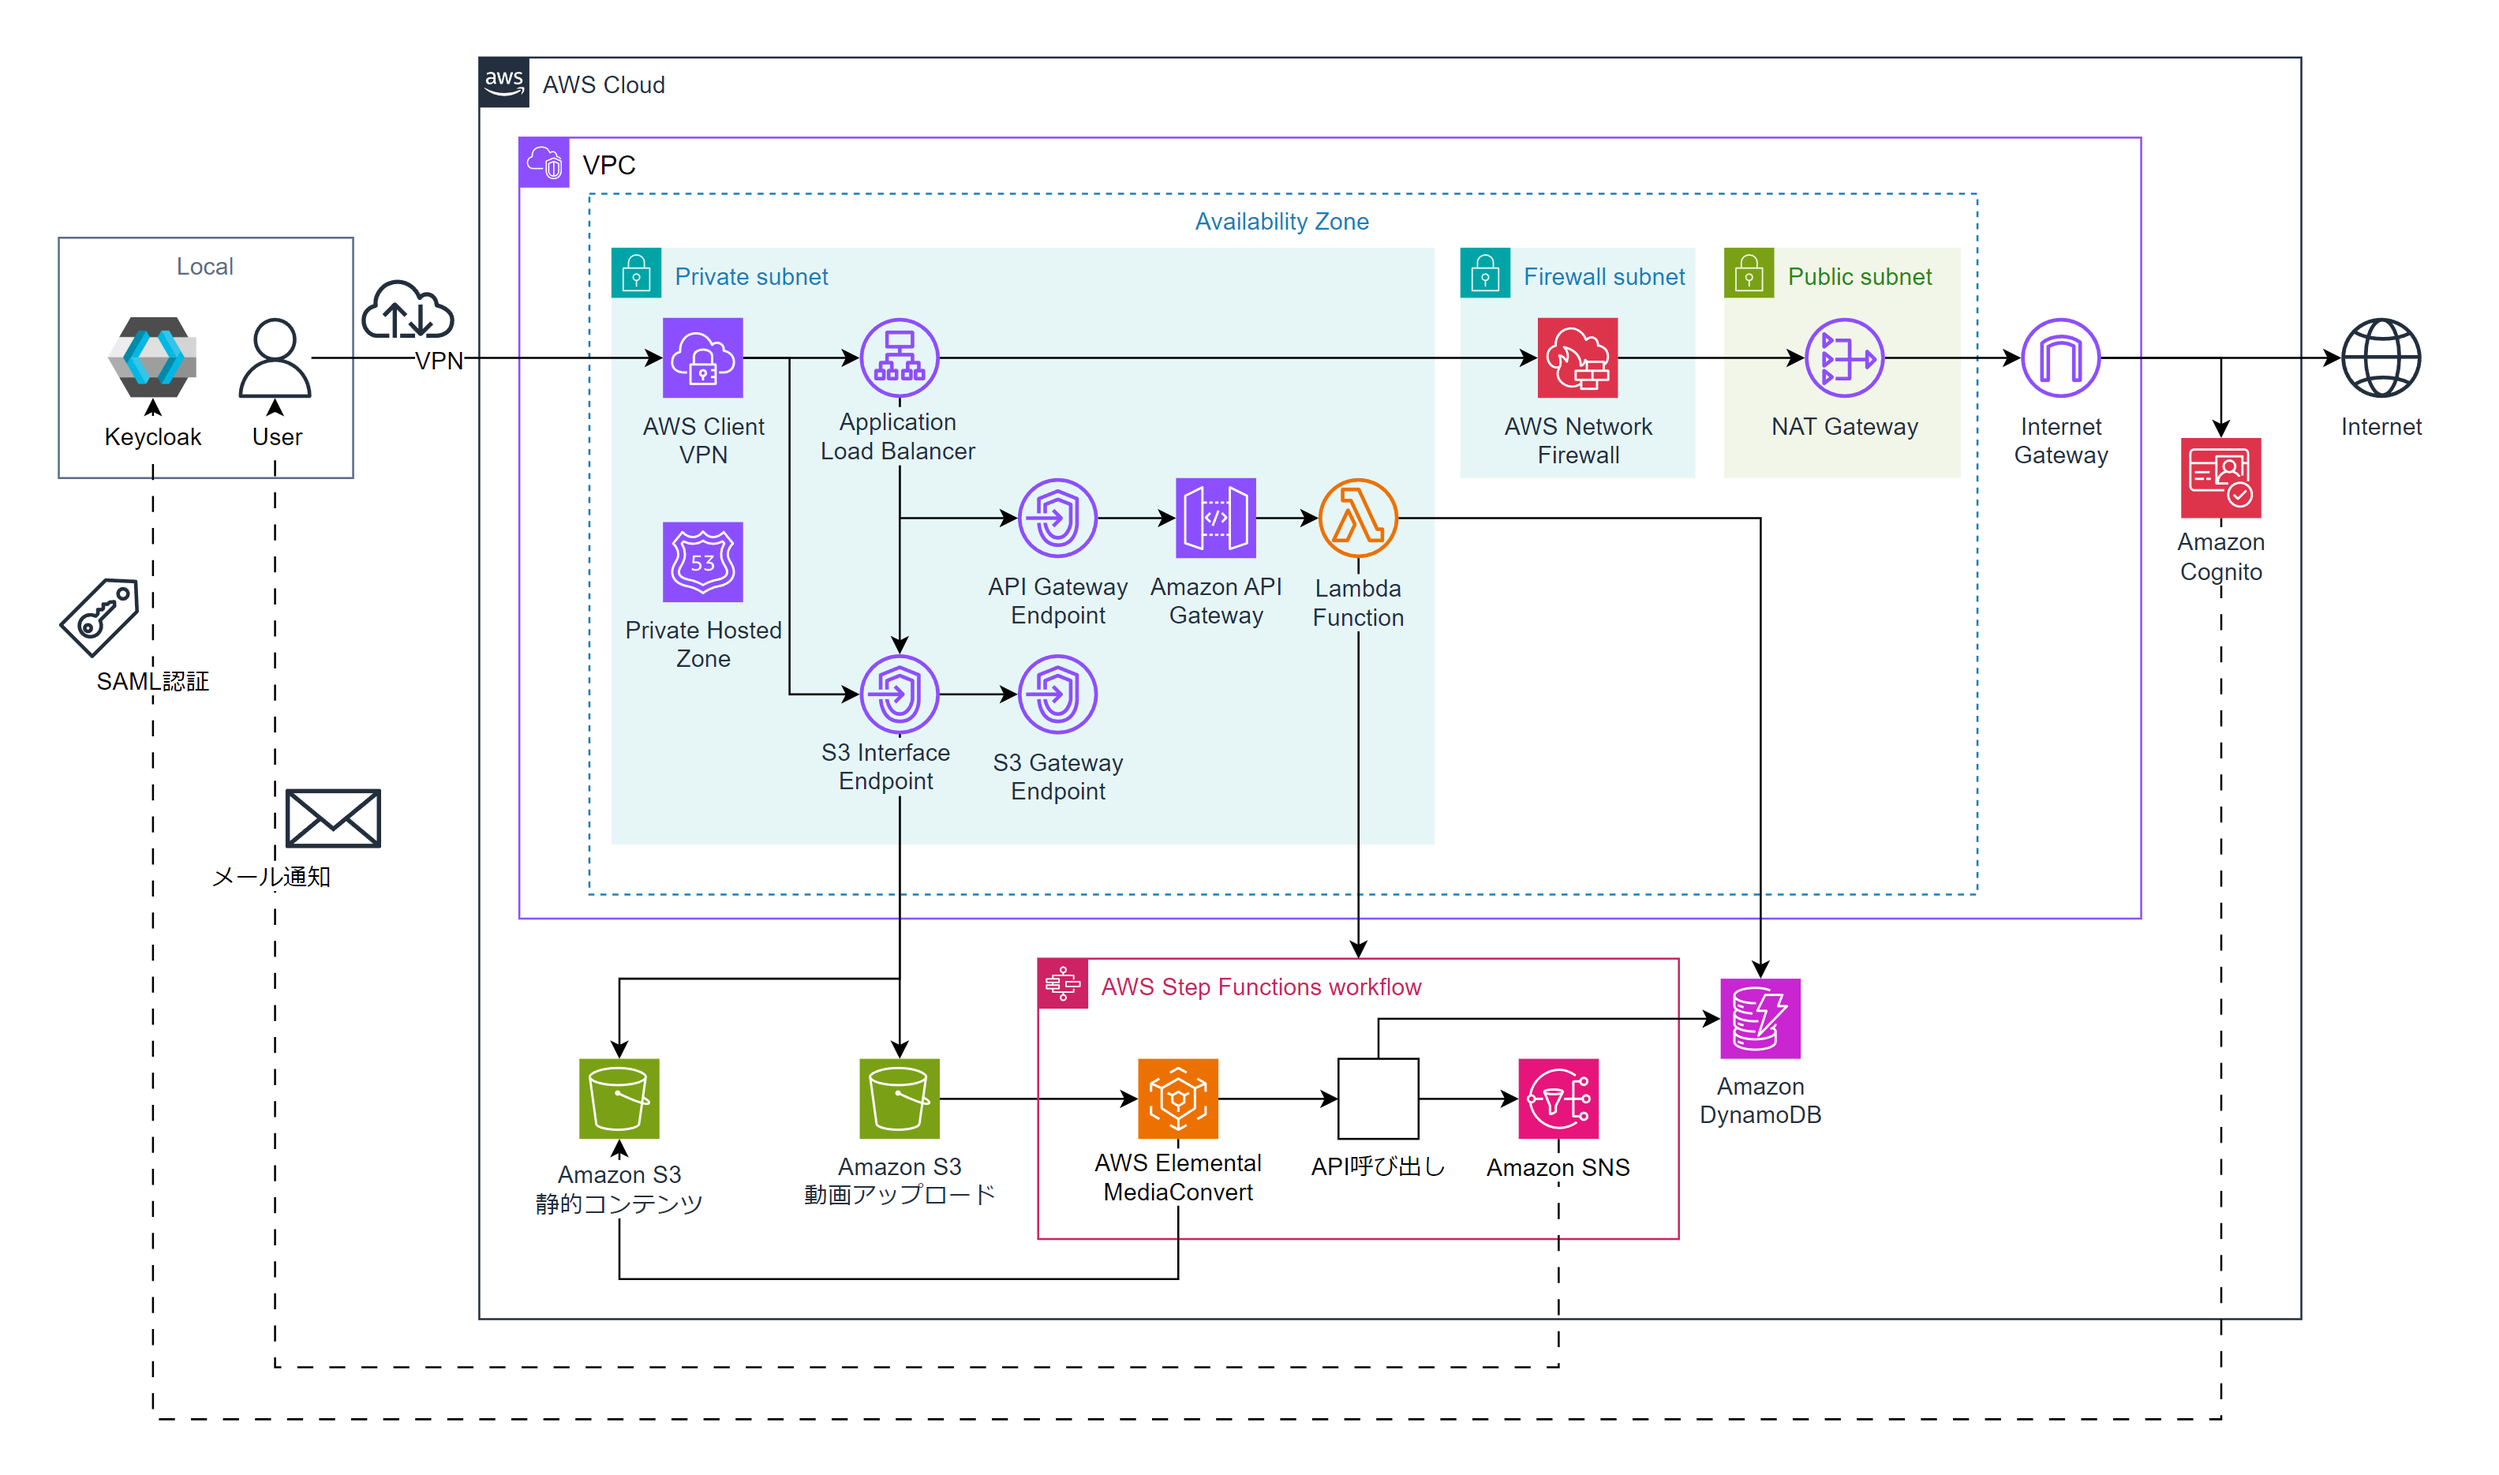
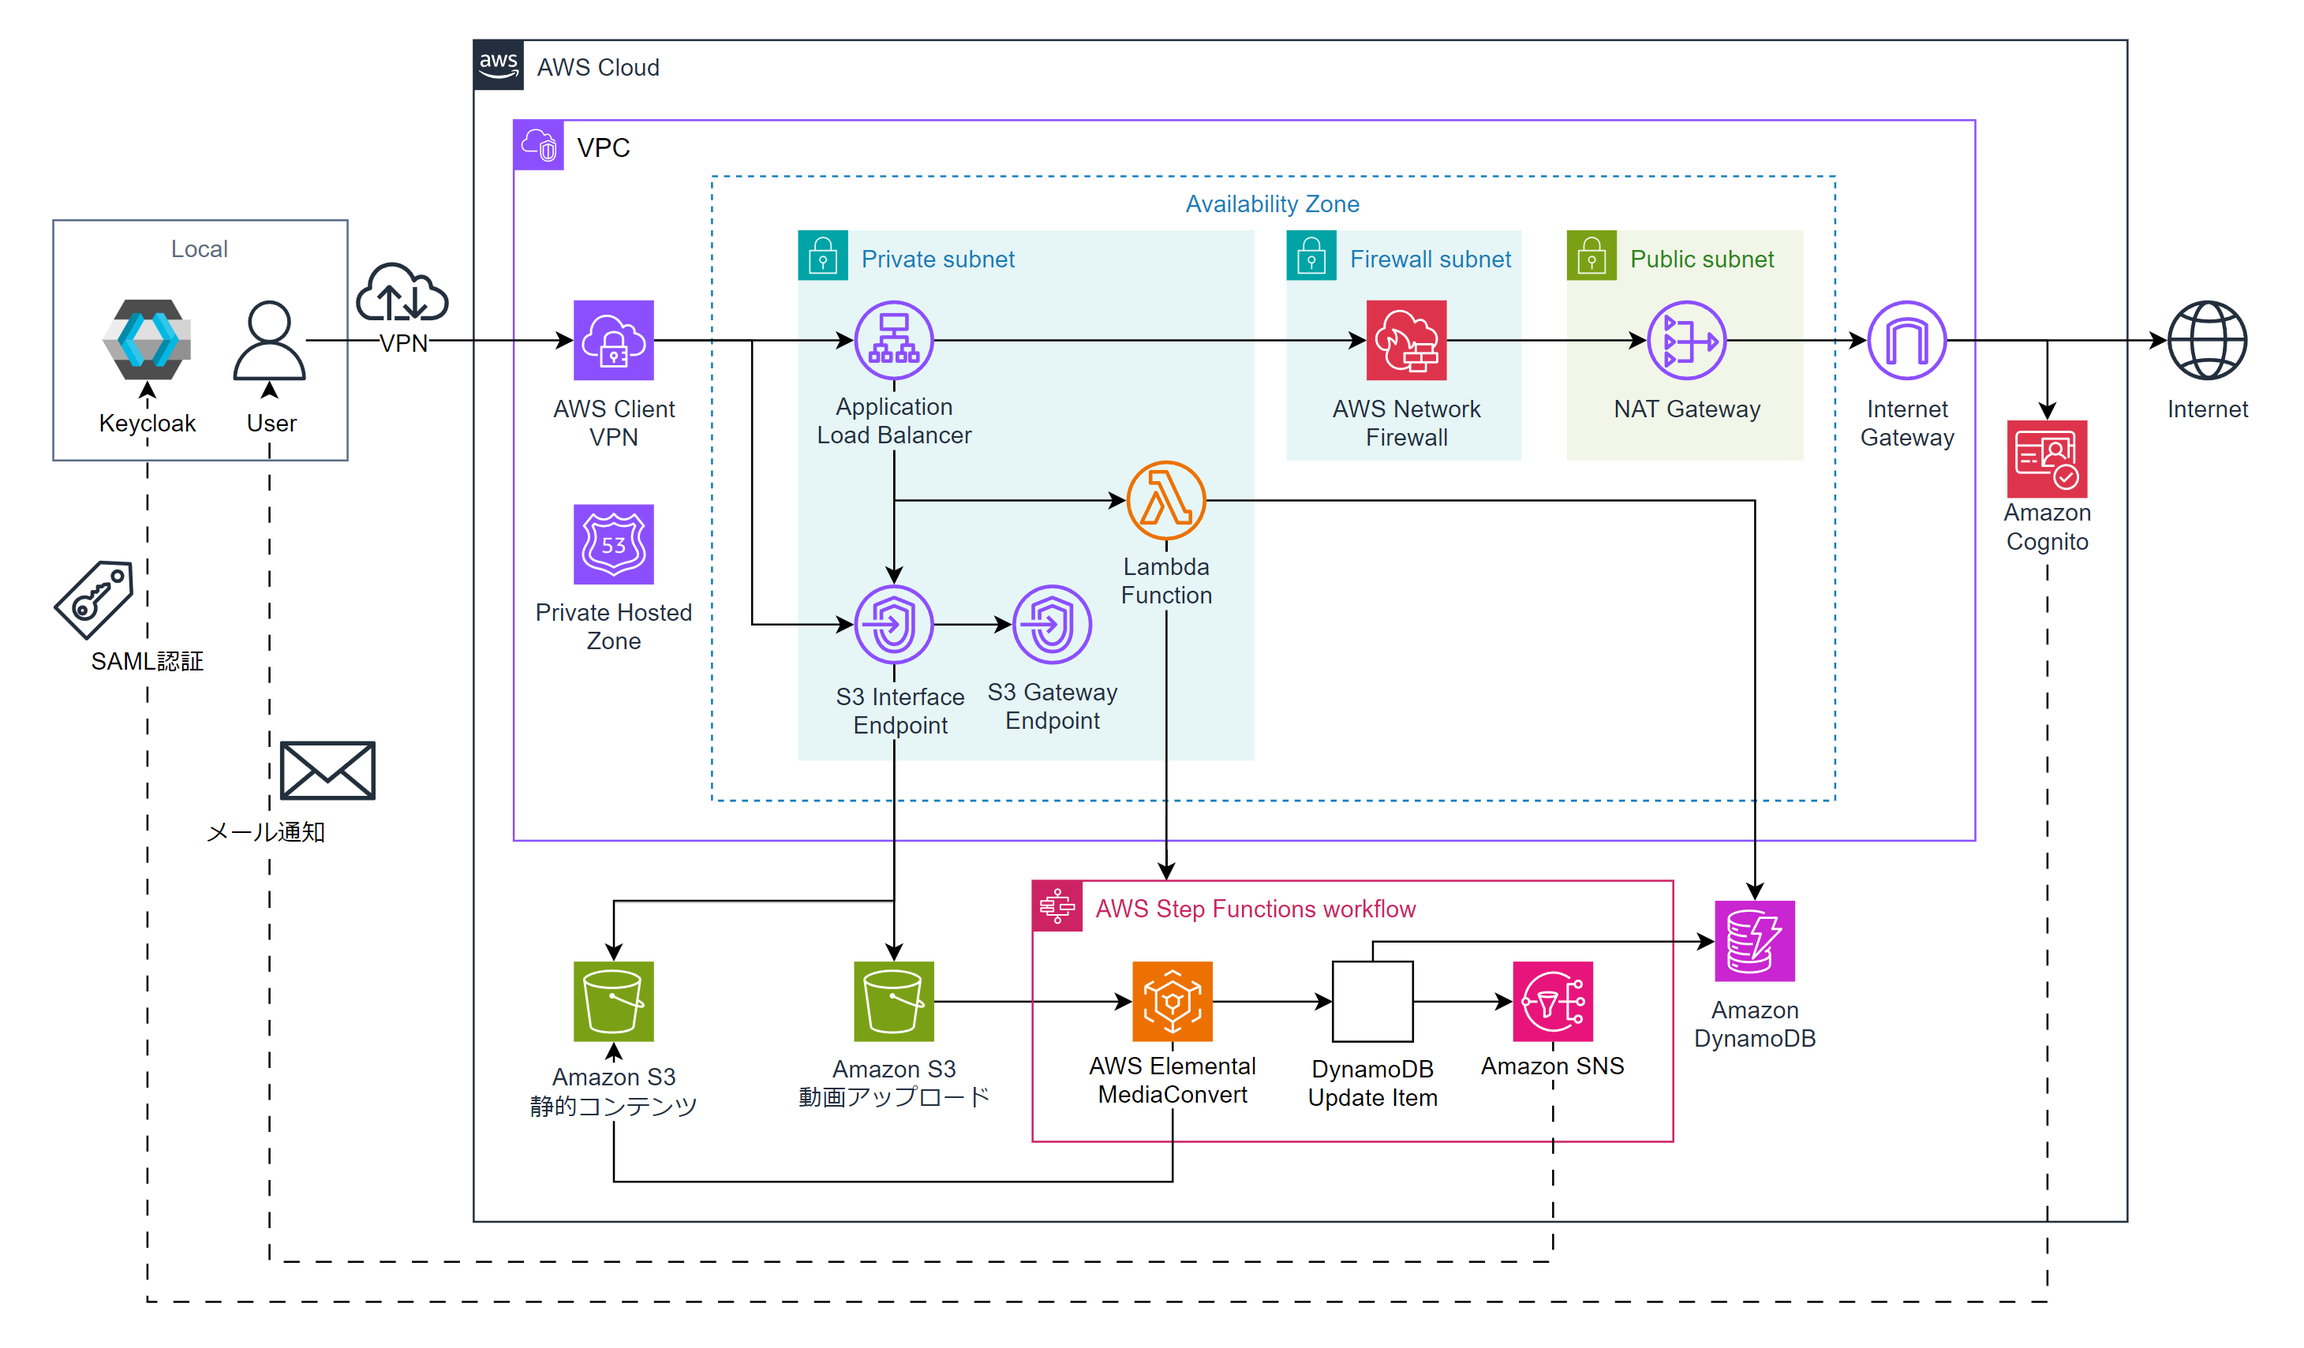
remove api gateway

diff --git a/cdk/lib/application-load-balancer.ts b/cdk/lib/application-load-balancer.ts
@@ -5,6 +5,7 @@ import { VtVpc } from "./vpc";
 import { VtVpn } from "./vpn";
 import { VtVpcEndpoint } from "./vpc-endpoint";
 import { VtCognito } from "./cognito";
+import { VtLambda } from "./lambda";
 import * as elbv2 from "aws-cdk-lib/aws-elasticloadbalancingv2";
 import * as elbv2_targets from "aws-cdk-lib/aws-elasticloadbalancingv2-targets";
 import * as elbv2_actions from "aws-cdk-lib/aws-elasticloadbalancingv2-actions";
@@ -17,6 +18,7 @@ interface VtAlbProps {
   vtVpcEndpoint: VtVpcEndpoint;
   vtVpn: VtVpn;
   vtCognito: VtCognito;
+  vtLambda: VtLambda;
 }
 
 export class VtAlb extends Construct {
@@ -81,6 +83,7 @@ export class VtAlb extends Construct {
     const vtVpcEndpoint = props.vtVpcEndpoint;
     const vtVpn = props.vtVpn;
     const vtCognito = props.vtCognito;
+    const vtLambda = props.vtLambda;
 
     // Target
     // S3 Interface Endpoint
@@ -91,14 +94,9 @@ export class VtAlb extends Construct {
     );
     const s3ITarget1 = new elbv2_targets.IpTarget(s3InterfaceEndpointIps[0]);
     const s3ITarget2 = new elbv2_targets.IpTarget(s3InterfaceEndpointIps[1]);
-    // API Gateway Interface Endpoint
-    const ApiGwEndpointIps = this.getVpcEndpointIps(
-      this,
-      "ApiEndpointIps",
-      vtVpcEndpoint.apiGw,
-    );
-    const ApiGwTarget1 = new elbv2_targets.IpTarget(ApiGwEndpointIps[0]);
-    const ApiGwTarget2 = new elbv2_targets.IpTarget(ApiGwEndpointIps[1]);
+
+    // Lambda
+    const lambdaTarget = new elbv2_targets.LambdaTarget(vtLambda.apiFunction);
 
     // Target Group
     const s3InterfaceTg = new elbv2.ApplicationTargetGroup(
@@ -119,18 +117,14 @@ export class VtAlb extends Construct {
       },
     );
 
-    const ApiGwTg = new elbv2.ApplicationTargetGroup(this, "ApiGwTargetGroup", {
-      healthCheck: {
-        // health check ref: https://docs.aws.amazon.com/ja_jp/prescriptive-guidance/latest/patterns/deploy-an-amazon-api-gateway-api-on-an-internal-website-using-private-endpoints-and-an-application-load-balancer.html#deploy-an-amazon-api-gateway-api-on-an-internal-website-using-private-endpoints-and-an-application-load-balancer-epics
-        // API Gateway Endpointはヘルスチェックに403返すため
-        healthyHttpCodes: "200,403",
+    const lambdaTg = new elbv2.ApplicationTargetGroup(
+      this,
+      "LambdaTargetGroup",
+      {
+        targetGroupName: config.appName + "-lambda",
+        targets: [lambdaTarget],
       },
-      port: 443,
-      protocol: elbv2.ApplicationProtocol.HTTPS,
-      targetGroupName: config.appName + "-api-gw",
-      targets: [ApiGwTarget1, ApiGwTarget2],
-      vpc: vtVpc.vpc,
-    });
+    );
 
     // Application Load Balancer
     this.albSg = new ec2.SecurityGroup(this, "SecurityGroup", {
@@ -140,7 +134,6 @@ export class VtAlb extends Construct {
       ec2.Peer.securityGroupId(vtVpn.vpnSg.securityGroupId), // VPN Endpointからのみ許可
       ec2.Port.allTraffic(),
     );
-    this.albSg.addEgressRule(ec2.Peer.anyIpv4(), ec2.Port.allTraffic());
 
     this.alb = new elbv2.ApplicationLoadBalancer(this, "ALB", {
       vpc: vtVpc.vpc,
@@ -149,6 +142,9 @@ export class VtAlb extends Construct {
       vpcSubnets: { subnets: vtVpc.privateSubnets },
       internetFacing: false,
     });
+
+    // ヘルスチェック用にセキュリティグループにルール追加
+    vtVpcEndpoint.s3Sg.addIngressRule(this.albSg, ec2.Port.HTTP);
 
     // Listener
     const httpsListener = this.alb.addListener("HttpsListener", {
@@ -178,23 +174,16 @@ export class VtAlb extends Construct {
       priority: 200,
     });
 
-    // API呼び出しは`/<API GWステージ>/*`へ転送
+    // `/api/*`はLambda関数へ転送
     httpsListener.addAction("ApiRule", {
       action: new elbv2_actions.AuthenticateCognitoAction({
-        next: elbv2.ListenerAction.forward([ApiGwTg]),
+        next: elbv2.ListenerAction.forward([lambdaTg]),
         userPool: vtCognito.userPool,
         userPoolClient: vtCognito.userPoolClient,
         userPoolDomain: vtCognito.userPoolDomain,
       }),
-      conditions: [
-        elbv2.ListenerCondition.pathPatterns([
-          "/" + config.apiStageName + "/*",
-        ]),
-      ],
+      conditions: [elbv2.ListenerCondition.pathPatterns(["/api/*"])],
       priority: 100,
     });
-
-    // ヘルスチェック用にルール追加
-    vtVpcEndpoint.s3Sg.addIngressRule(this.albSg, ec2.Port.HTTP);
   }
 }

diff --git a/webapp/vide-training-service/src/components/Creating/Creating.js b/webapp/vide-training-service/src/components/Creating/Creating.js
@@ -1,5 +1,5 @@
 import { useState, useEffect } from "react";
-import { API_BASE_URL, X_APIGW_API_ID } from "../Constants";
+import { API_BASE_URL } from "../Constants";
 
 function Creating() {
   const [trainingTitle, setTrainingTitle] = useState("");
@@ -24,9 +24,6 @@ function Creating() {
       const url = API_BASE_URL + "/video/presigned-url";
       const req = {
         method: "GET",
-        headers: {
-          "x-apigw-api-id": X_APIGW_API_ID,
-        },
       };
       console.log(req);
 
@@ -57,15 +54,12 @@ function Creating() {
 
   async function uploadTrainingVideo(uploadUrl) {
     try {
-      //const trainingVideoData = new FormData();
-      //trainingVideoData.append("file", trainingVideo);
       const url = uploadUrl;
       const req = {
         method: "PUT",
         headers: {
-          "x-apigw-api-id": X_APIGW_API_ID,
+          "Content-Type": "video/mp4",
         },
-        //body: trainingVideoData,
         body: trainingVideo,
       };
       console.log(req);
@@ -97,7 +91,6 @@ function Creating() {
       const req = {
         method: "POST",
         headers: {
-          "x-apigw-api-id": X_APIGW_API_ID,
           "Content-Type": "pplication/json",
         },
         body: JSON.stringify(body),

diff --git a/cdk/lib/vpc-endpoint.ts b/cdk/lib/vpc-endpoint.ts
@@ -14,13 +14,11 @@ export class VtVpcEndpoint extends Construct {
   s3Gateway: ec2.GatewayVpcEndpoint;
   s3Interface: ec2.InterfaceVpcEndpoint;
   dynamodbGateway: ec2.GatewayVpcEndpoint;
-  apiGw: ec2.InterfaceVpcEndpoint;
   logs: ec2.InterfaceVpcEndpoint;
   sfn: ec2.InterfaceVpcEndpoint;
 
   // Security Group
   s3Sg: ec2.SecurityGroup;
-  apiGwSg: ec2.SecurityGroup;
   logsSg: ec2.SecurityGroup;
   sfnSg: ec2.SecurityGroup;
 
@@ -58,18 +56,6 @@ export class VtVpcEndpoint extends Construct {
       subnets: [{ subnets: vtVpc.privateSubnets }],
     });
     this.dynamodbGateway.applyRemovalPolicy(RemovalPolicy.DESTROY);
-
-    // API Gateway Endpoint
-    this.apiGwSg = new ec2.SecurityGroup(this, "ApiGatewaySG", {
-      vpc: vtVpc.vpc,
-    });
-    this.apiGwSg.addEgressRule(ec2.Peer.anyIpv4(), ec2.Port.allTraffic());
-
-    this.apiGw = vtVpc.vpc.addInterfaceEndpoint("ApiGateway", {
-      service: ec2.InterfaceVpcEndpointAwsService.APIGATEWAY,
-      securityGroups: [this.apiGwSg],
-      subnets: { subnets: vtVpc.privateSubnets },
-    });
 
     // Cloudwatch Logs Endpoint
     this.logsSg = new ec2.SecurityGroup(this, "LogsSG", {

diff --git a/cdk/lib/video-training-service-stack.ts b/cdk/lib/video-training-service-stack.ts
@@ -8,7 +8,6 @@ import { VtVpcEndpoint } from "./vpc-endpoint";
 import { VtNetworkFirewall } from "./network-firewall";
 import { VtAlb } from "./application-load-balancer";
 import { VtHostedZone } from "./hosted-zone";
-import { VtApiGw } from "./api-gateway";
 import { VtLambda } from "./lambda";
 import { VtS3 } from "./s3";
 import { VtDynamoDb } from "./dynamodb";
@@ -36,14 +35,6 @@ export class VideoTrainingServiceStack extends cdk.Stack {
 
     const vtCognito = new VtCognito(this, "VtCognito", { config });
 
-    const vtAlb = new VtAlb(this, "VtAlb", {
-      config,
-      vtVpc,
-      vtVpcEndpoint,
-      vtVpn,
-      vtCognito,
-    });
-
     const vtS3 = new VtS3(this, "VtS3", {
       config,
       vtVpcEndpoint,
@@ -66,10 +57,13 @@ export class VideoTrainingServiceStack extends cdk.Stack {
       vtStepFunctions,
     });
 
-    const vtApiGw = new VtApiGw(this, "VtApiGw", {
+    const vtAlb = new VtAlb(this, "VtAlb", {
       config,
-      vtLambda,
+      vtVpc,
       vtVpcEndpoint,
+      vtVpn,
+      vtCognito,
+      vtLambda,
     });
 
     const vtHostedZone = new VtHostedZone(this, "VtHostedZone", {

diff --git a/webapp/vide-training-service/src/components/Training/Training.js b/webapp/vide-training-service/src/components/Training/Training.js
@@ -1,7 +1,7 @@
 import { useState, useEffect, useRef } from "react";
 import { useLocation } from "react-router-dom";
 import VideoJS from "./VideoJS";
-import { API_BASE_URL, X_APIGW_API_ID } from "../Constants";
+import { API_BASE_URL } from "../Constants";
 
 function Training(props) {
   const [loading, setLoading] = useState(true);
@@ -44,7 +44,6 @@ function Training(props) {
       const req = {
         method: "PUT",
         headers: {
-          "x-apigw-api-id": X_APIGW_API_ID,
           "Content-Type": "application/json",
         },
         body: JSON.stringify(body),
@@ -79,9 +78,6 @@ function Training(props) {
       const url = API_BASE_URL + "/training?" + query;
       const req = {
         method: "GET",
-        headers: {
-          "x-apigw-api-id": X_APIGW_API_ID,
-        },
       };
 
       const res = await fetch(url, req);

diff --git a/webapp/vide-training-service/src/components/Home/Home.js b/webapp/vide-training-service/src/components/Home/Home.js
@@ -1,5 +1,5 @@
 import { useState, useEffect } from "react";
-import { API_BASE_URL, X_APIGW_API_ID } from "../Constants";
+import { API_BASE_URL } from "../Constants";
 import { TrainingCard } from "./TrainingCard";
 
 function Home() {
@@ -24,9 +24,6 @@ function Home() {
       const url = API_BASE_URL + "/training/list";
       const req = {
         method: "GET",
-        headers: {
-          "x-apigw-api-id": X_APIGW_API_ID,
-        },
       };
 
       const res = await fetch(url, req);

diff --git a/cdk/lib/lambda.ts b/cdk/lib/lambda.ts
@@ -95,7 +95,8 @@ export class VtLambda extends Construct {
     this.apiFunction = new lambda.Function(this, "ApiFunction", {
       handler: "lambda_function.lambda_handler",
       runtime: lambda.Runtime.PYTHON_3_12,
-      timeout: Duration.seconds(30),
+      timeout: Duration.seconds(120),
+      memorySize: 1024,
       role: this.lambdaRole,
       securityGroups: [this.lambdaSg],
       vpc: vtVpc.vpc,

diff --git a/cdk/lib/config.ts b/cdk/lib/config.ts
@@ -29,11 +29,6 @@ export class VtConfig extends Construct {
   samlIdpMetaDataPath = "resources/saml/saml_idp_metadata.xml"; // SAML IdPのメタデータファイルへのパス
 
   /*
-   * api
-   */
-  apiStageName = "main";
-
-  /*
    * s3
    */
   uploadBucketNamePrefix = "upload."; // 動画アップロード用バケット名: <uploadBucketNamePrefix><appDomain>

diff --git a/webapp/vide-training-service/src/components/Constants.js b/webapp/vide-training-service/src/components/Constants.js
@@ -1,2 +1,3 @@
-export const API_BASE_URL = "http://localhost:8080";
-export const X_APIGW_API_ID = "dummy";
+//export const API_BASE_URL = "http://localhost:8080";
+
+export const API_BASE_URL = "https://vt-test.com/api";

diff --git a/cdk/resources/lambda/api/create_training.py b/cdk/resources/lambda/api/create_training.py
@@ -3,6 +3,7 @@ import uuid
 import json
 import logging
 import os
+import base64
 from botocore.exceptions import ClientError
 from typing import Dict
 import vt_const
@@ -68,7 +69,8 @@ def execute_state_machine(training_info: TrainingInfo):
 
 def do(event):
     # リクエストから研修情報を取得
-    training_info = TrainingInfo(json.loads(event["body"]))
+    body = base64.b64decode(event["body"]).decode("utf-8")
+    training_info = TrainingInfo(json.loads(body))
     logger.info("training info", extra=vars(training_info))
 
     # Trainingsテーブルへitem作成

diff --git a/cdk/resources/lambda/api/vt_util.py b/cdk/resources/lambda/api/vt_util.py
@@ -10,7 +10,7 @@ logger = logging.getLogger(vt_const.PROJECT_NAME).getChild(__name__)
 def get_user_claim_from_event(event) -> Dict:
     logger.debug(event)
     try:
-        oidc_data = event["headers"]["X-Amzn-Oidc-Data"]
+        oidc_data = event["headers"]["x-amzn-oidc-data"]
         logger.debug(oidc_data)
         user_claim = json.loads(base64.b64decode(oidc_data.split(".")[1]).decode())
         logger.debug("user_claim", extra=user_claim)

diff --git a/cdk/resources/lambda/api/lambda_function.py b/cdk/resources/lambda/api/lambda_function.py
@@ -18,7 +18,8 @@ def lambda_handler(event, context):
     logger.debug(event)
     logger.debug(context)
 
-    request_path = event["path"]
+    #  "/api/training" で来るので "/api" を取り除く
+    request_path = "/" + event["path"].split("/", 2)[2]
     request_method = event["httpMethod"]
     logger.debug("path method", extra={"path": request_path, "method": request_method})
 
